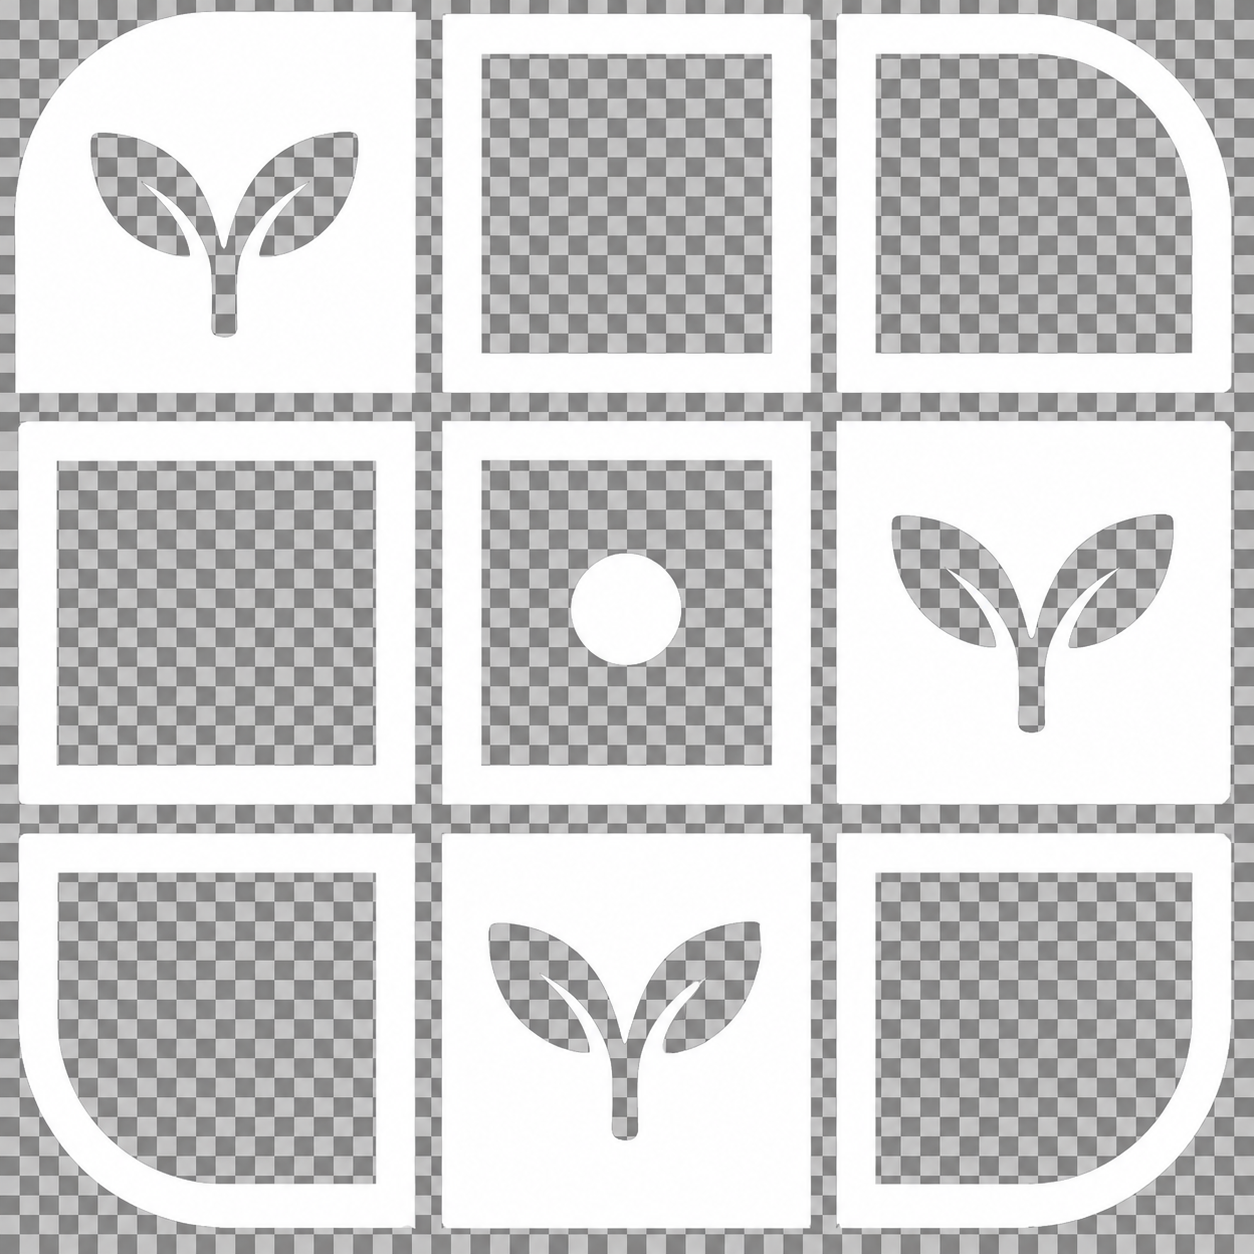
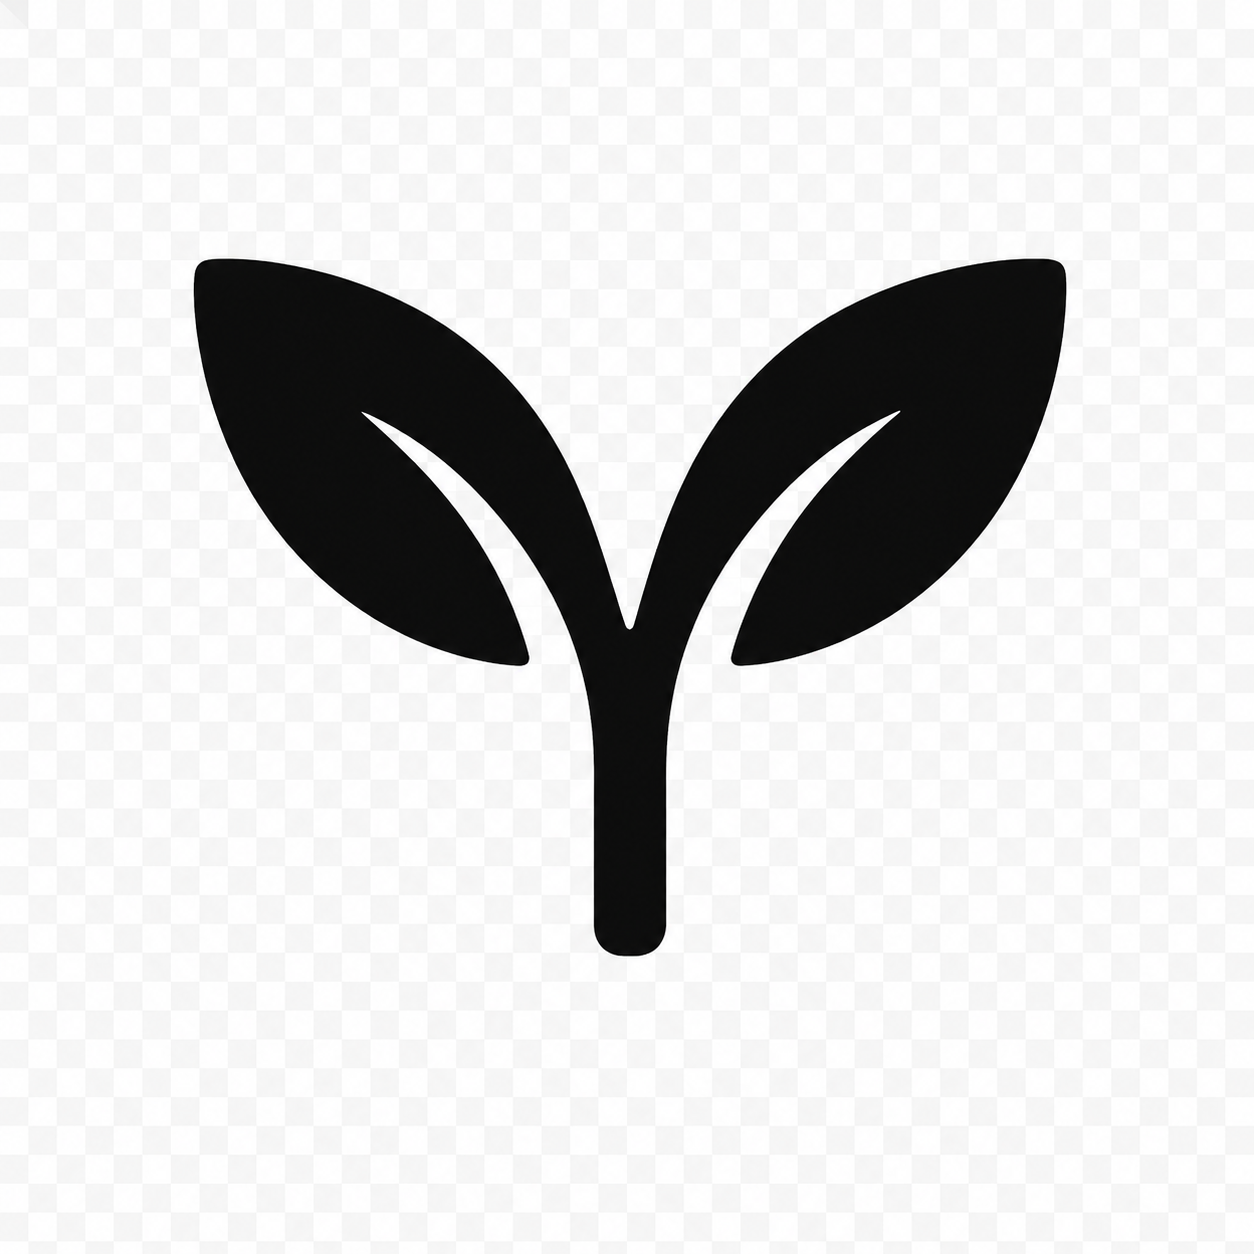
Refactor code structure for improved readability and maintainability

diff --git a/src/app/(tabs)/profile/index.tsx b/src/app/(tabs)/profile/index.tsx
@@ -14,6 +14,7 @@ import {
   useSettings,
 } from "@/src/context/SettingsProvider";
 import { OFFLINE_MUTATION_MESSAGE } from "@/src/features/network/offline";
+import { isPushDiagnosticsVisible } from "@/src/features/push/diagnostics";
 import { useIsOffline } from "@/src/hooks/useNetworkStatus";
 import { radius, spacing } from "@/src/theme/ui";
 import { useClerk, useUser } from "@clerk/clerk-expo";
@@ -476,7 +477,7 @@ export default function ProfileScreen() {
             </Button>
           </View>
 
-          {/* {isPushDiagnosticsVisible() ? (
+          {isPushDiagnosticsVisible() ? (
             <Button
               mode="outlined"
               icon="bug-outline"
@@ -484,7 +485,7 @@ export default function ProfileScreen() {
             >
               Otwórz diagnostykę push
             </Button>
-          ) : null} */}
+          ) : null}
         </Card>
 
         <Card title="Dane">
@@ -496,15 +497,15 @@ export default function ProfileScreen() {
           >
             Eksport danych
           </Button> */}
+          <Button mode="contained" onPress={handleSignOut}>
+            Wyloguj
+          </Button>
           <Button
             mode="contained"
             buttonColor={theme.colors.error}
             onPress={() => router.push("/(tabs)/home/delete-account")}
           >
             Usuń konto
-          </Button>
-          <Button mode="contained" onPress={handleSignOut}>
-            Wyloguj
           </Button>
         </Card>
       </ScrollView>

diff --git a/src/app/(auth)/sign-in.tsx b/src/app/(auth)/sign-in.tsx
@@ -178,8 +178,8 @@ export default function SignInScreen() {
               <Text style={styles.link}>Sign up</Text>
             </Link>
           </View>
-        </View>{" "}
-      </KeyboardAvoidingView>{" "}
+        </View>
+      </KeyboardAvoidingView>
     </Screen>
   );
 }

diff --git a/src/app/(tabs)/beds/[bedId]/plantings/new.tsx b/src/app/(tabs)/beds/[bedId]/plantings/new.tsx
@@ -123,7 +123,7 @@ export default function PlantingCreateScreen() {
         submitLabel="Dodaj do planu"
         isSubmitting={createPlanting.isPending}
         showSowedAt
-        sowedAtHint="Po podaniu tej daty system wyliczy okno zbioru, ostrzeżenia i harmonogram od wskazanego dnia. Jeśli zostawisz puste, obliczenia zaczną się od dnia dzisiejszego."
+        sowedAtHint="-OPCJONALNE- Po podaniu tej daty system wyliczy okno zbioru, ostrzeżenia i harmonogram od wskazanego dnia. Jeśli zostawisz puste, obliczenia zaczną się od dnia dzisiejszego."
         showHeaderIntro
         screenTitle="Zaplanuj uprawę"
         screenSubtitle="Dodaj warzywo do planu grządki."